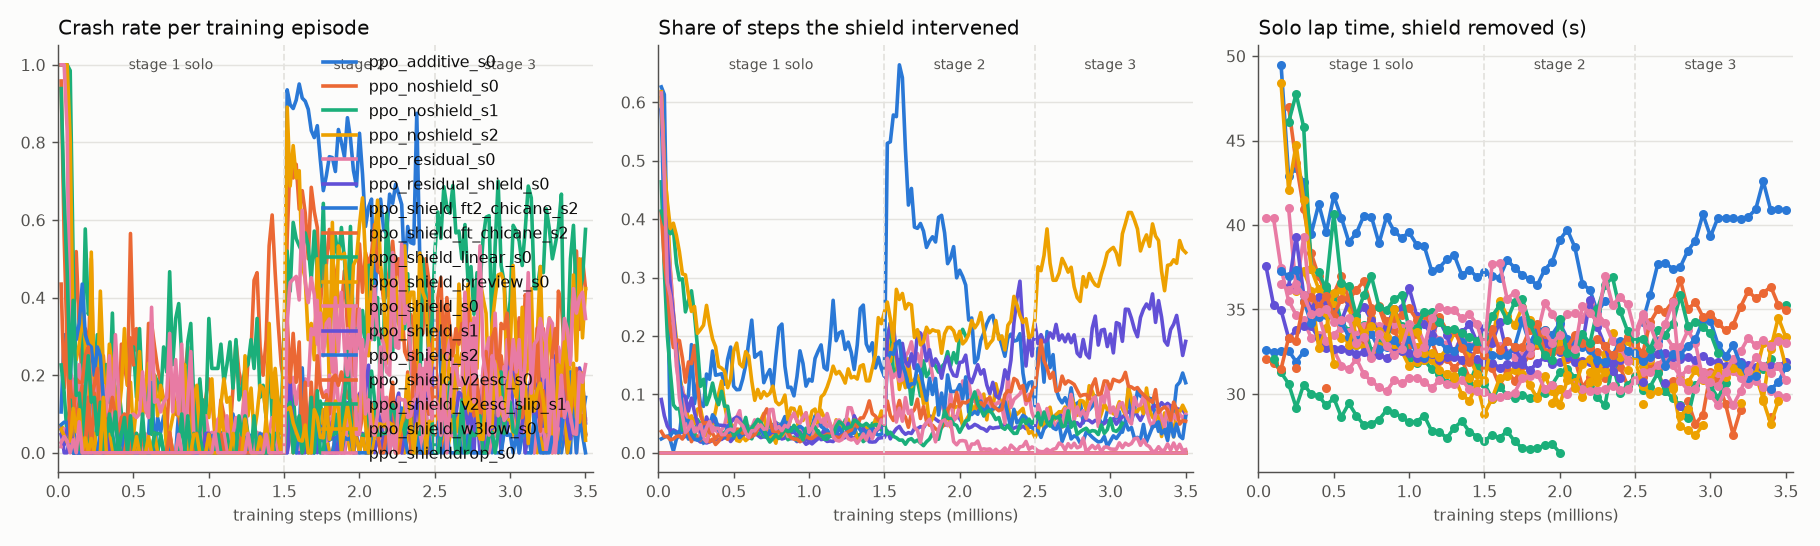
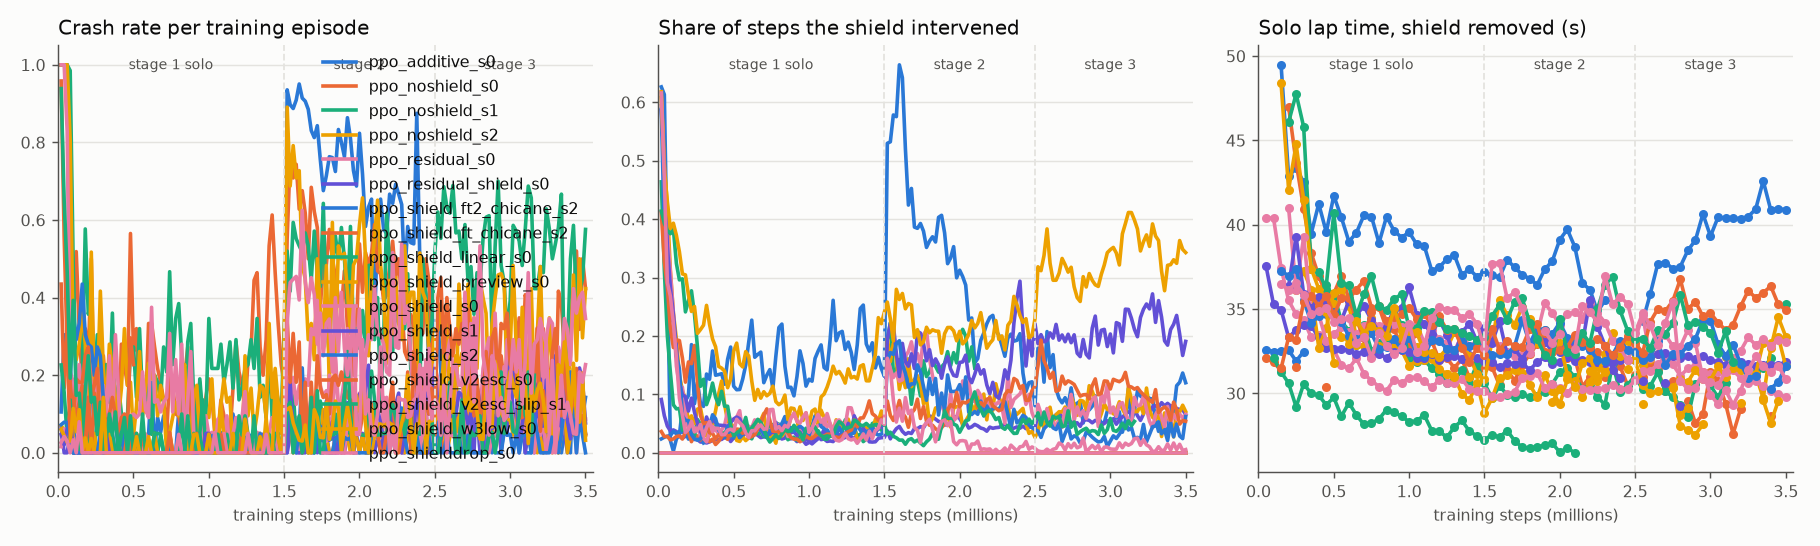
Auto-sync training progress (20:19)

diff --git a/RUNS.md b/RUNS.md
@@ -1,6 +1,6 @@
 # Run registry
 
-Auto-generated by `python -m scripts.update_registry` (2026-11-05 15:22). Each run directory `runs/<run>/` holds `args.json`, `run_info.json` (git commit, command, status), `train_log.csv` (every ~20k steps), `eval_log.csv` (solo laps with/without shield every 50k steps), `model_stage*.zip` + `vecnorm_stage*.pkl` (checkpoint after each curriculum stage). TensorBoard logs (`runs/*/tb`) stay local.
+Auto-generated by `python -m scripts.update_registry` (2026-11-05 20:19). Each run directory `runs/<run>/` holds `args.json`, `run_info.json` (git commit, command, status), `train_log.csv` (every ~20k steps), `eval_log.csv` (solo laps with/without shield every 50k steps), `model_stage*.zip` + `vecnorm_stage*.pkl` (checkpoint after each curriculum stage). TensorBoard logs (`runs/*/tb`) stay local.
 
 ## Training runs
 
@@ -14,13 +14,13 @@ Auto-generated by `python -m scripts.update_registry` (2026-11-05 15:22). Each r
 | `ppo_residual_shield_s0` | E23: ResRace-style residual policy trained with the final shield (escape, v2 sim) | shield=cond_fb_grip_esc residual seed=0 tyre=saturated_v2 | `c8b4246` | finished | 3.50M | 0% / 3% / 9% | 50k | 31.40 / 31.88 | 7% | stage1, stage2, stage3 |
 | `ppo_shield_ft2_chicane_s2` | E22b: gentler chicane fine-tuning of seed 2 (lr 5e-5, slip penalty w6 = 1, 300k steps) | shield=cond_fb_grip_esc seed=2 tyre=saturated_v2 | `f167ff5` | running | 0.30M | 27% | 50k | 31.92 / 32.48 | 2% | - |
 | `ppo_shield_ft_chicane_s2` | E22: seed-2 shielded policy fine-tuned 500k steps, half the episodes starting before the chicane | shield=cond_fb_grip_esc seed=2 tyre=saturated_v2 | `e1f1aac` | running | 0.50M | 17% | 50k | 30.36 / 30.36 | 3% | - |
-| `ppo_shield_linear_s0` | Ours on stock linear tyres: does PPO exploit unlimited grip (slip > 15 deg, > 100% mu g)? | shield=cond_fb_grip seed=0 tyre=linear | `4ab467a` | running | 2.02M | 3% / 7% / - | 100k | 26.52 / 26.52 | 18% | stage1 |
+| `ppo_shield_linear_s0` | Ours on stock linear tyres: does PPO exploit unlimited grip (slip > 15 deg, > 100% mu g)? | shield=cond_fb_grip seed=0 tyre=linear | `4ab467a` | running | 2.10M | 3% / 7% / - | 100k | 26.48 / 26.48 | 18% | stage1 |
 | `ppo_shield_preview_s0` | Timidity test: ours with 10 centerline curvatures (1-20 m ahead) in the observation | shield=cond_fb_grip seed=0 tyre=saturated | `98cfd56` | finished | 3.50M | 2% / 4% / 7% | 250k | 30.00 / 31.60 | 6% | stage1, stage2, stage3 |
 | `ppo_shield_s0` | Ours: PPO + action-conditioned APF shield with fallback (grip reach), all stages | shield=cond_fb_grip seed=0 tyre=saturated | `afc94c8 +dirty` | finished | 3.50M | 1% / 9% / 7% | 200k | 30.48 / 33.04 | 6% | stage1, stage2, stage3 |
 | `ppo_shield_s1` | Ours, seed 1 | shield=cond_fb_grip seed=1 tyre=saturated | `0152028` | finished | 3.50M | 1% / 9% / 11% | 200k | 29.12 / 29.12 | 20% | stage1, stage2, stage3 |
 | `ppo_shield_s2` | Ours, seed 2 | shield=cond_fb_grip seed=2 tyre=saturated | `41be473` | finished | 3.50M | 1% / 3% / 3% | 150k | 30.28 / 31.60 | 4% | stage1, stage2, stage3 |
 | `ppo_shield_v2esc_s0` | Ours, improved: shield with deadlock escape, trained on the post-spin-fixed simulator | shield=cond_fb_grip_esc seed=0 tyre=saturated_v2 | `1bb44f8` | finished | 3.50M | 4% / 12% / 21% | 150k | 31.48 / 34.96 | 6% | stage1, stage2, stage3 |
-| `ppo_shield_v2esc_slip_s1` | Final shield + slip penalty (w6 = 1), seed 1 (the seed that learned to slide) | shield=cond_fb_grip_esc seed=1 tyre=saturated_v2 | `7cd44cb` | running | 3.08M | 7% / 7% / 7% | 450k | 32.00 / 32.40 | 5% | stage1, stage2 |
+| `ppo_shield_v2esc_slip_s1` | Final shield + slip penalty (w6 = 1), seed 1 (the seed that learned to slide) | shield=cond_fb_grip_esc seed=1 tyre=saturated_v2 | `7cd44cb` | running | 3.16M | 7% / 7% / 7% | 450k | 31.88 / 31.88 | 5% | stage1, stage2 |
 | `ppo_shield_w3low_s0` | Timidity test: ours with intervention penalty w3 = 0.02 (default 0.1) | shield=cond_fb_grip seed=0 tyre=saturated | `8eb284b` | finished | 3.50M | 2% / 7% / 15% | 450k | 28.24 / 29.56 | 34% | stage1, stage2, stage3 |
 | `ppo_shielddrop_s0` | Shield dropout: shield on in 100% / 50% / 25% of episodes in stages 1/2/3 (does the policy learn safety itself?) | shield=cond_fb_grip seed=0 tyre=saturated | `0d04e46 +dirty` | finished | 3.50M | 0% / 23% / 19% | 150k | 29.32 / 30.84 | 1% | stage1, stage2, stage3 |
 
@@ -60,6 +60,7 @@ Auto-generated by `python -m scripts.update_registry` (2026-11-05 15:22). Each r
 | `eval_escape_v4_s2.json` |  |
 | `eval_escape_v4_w3low.json` |  |
 | `eval_extra30.json` |  |
+| `eval_extra30_residual.json` |  |
 | `eval_ft_chicane_s2.json` | E22: chicane fine-tuned seed-2 policy, with and without stall recovery |
 | `eval_margin_s1.json` |  |
 | `eval_ppo_additive_s0.json` | E9: PPO trained + raced with the additive Eq. 2/3 shield (v1 simulator) |

diff --git a/results/training_efficiency.md b/results/training_efficiency.md
@@ -12,12 +12,12 @@ Solo laps every 50k steps, standing start. 'fast' = under 34 s (best classical s
 | `ppo_residual_shield_s0` | cond_fb_grip_esc residual tyre=saturated_v2 | 3500k | 50k | 200k | 1 | 133 (3568) | 31.40 |
 | `ppo_shield_ft2_chicane_s2` | cond_fb_grip_esc tyre=saturated_v2 | 300k | 50k | 50k | 9 | 96 (355) | 31.92 |
 | `ppo_shield_ft_chicane_s2` | cond_fb_grip_esc tyre=saturated_v2 | 500k | 50k | 50k | 14 | 94 (547) | 30.36 |
-| `ppo_shield_linear_s0` | cond_fb_grip tyre=linear | 2040k | 100k | 100k | 21 | 113 (2425) | 26.52 |
+| `ppo_shield_linear_s0` | cond_fb_grip tyre=linear | 2100k | 100k | 100k | 21 | 119 (2512) | 26.48 |
 | `ppo_shield_preview_s0` | cond_fb_grip | 3500k | 250k | 400k | 15 | 174 (4103) | 30.00 |
 | `ppo_shield_s0` | cond_fb_grip | 3500k | 200k | 450k | 8 | 234 (4158) | 30.48 |
 | `ppo_shield_s1` | cond_fb_grip | 3500k | 200k | 800k | 9 | 313 (4572) | 29.12 |
 | `ppo_shield_s2` | cond_fb_grip | 3500k | 150k | 600k | 11 | 96 (3965) | 30.28 |
 | `ppo_shield_v2esc_s0` | cond_fb_grip_esc tyre=saturated_v2 | 3500k | 150k | 150k | 76 | 497 (3821) | 31.48 |
-| `ppo_shield_v2esc_slip_s1` | cond_fb_grip_esc tyre=saturated_v2 | 3080k | 450k | 1000k | 140 | 283 (3282) | 32.00 |
+| `ppo_shield_v2esc_slip_s1` | cond_fb_grip_esc tyre=saturated_v2 | 3160k | 450k | 1000k | 140 | 295 (3369) | 31.88 |
 | `ppo_shield_w3low_s0` | cond_fb_grip | 3500k | 450k | 500k | 24 | 405 (4981) | 28.24 |
 | `ppo_shielddrop_s0` | cond_fb_grip drop=[1.0, 0.5, 0.25] | 3500k | 150k | 650k | 8 | 561 (4046) | 29.32 |
